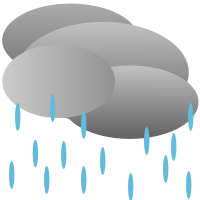
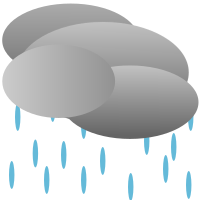
Hailey - Added daily weather page; Included location backtracking to nearest location in the available database in geopy

diff --git a/main.py b/main.py
@@ -10,18 +10,32 @@ from PIL import Image, ImageTk
 # Local Time
 from datetime import datetime
 
+# Get Location
+import ssl
+import certifi
+from geopy.geocoders import Nominatim
+import geopy.geocoders
+
 class Main:
 
     def __init__(self):
         self.root = ""
         self.now = datetime.now()
-        self.currentTime = self.now.strftime("%H:%M:%S")
+        self.currentTime = self.now.strftime("%H:%M")
         self.weatherIcons = []
+        self.days = ["Sunday", "Monday", "Tuesday", "Wednesday", "Thursday", "Friday", "Saturday"]
+        self.city = ""
 
     def mainLoop(self):
-        
+
         weather = Weather()
         lat, long = weather.SetCurrLoc()
+
+        # Get Nearest City/Location
+
+        self.getNearestCity(lat, long)
+        
+        
         curr_weather = weather.ViewCurrWeather(lat, long)
         temp = curr_weather["CurrTemp"]
 
@@ -50,30 +64,13 @@ class Main:
                     label = tk.Label(self.root, padx=50, pady=0)
                     label.grid(row=row, column=col, padx=20, pady=0)
 
-
-        # Hourly Button
-        hourly_button = Button(self.root, text="Hourly Forecast", width=10, height=2, command=self.hourlyForecast)
-        hourly_button.grid(row=7, column=1, padx=5, pady=5)
-        
-        # Daily Button
-        daily_button = Button(self.root, text="Daily Forecast", width=10, height=2, command=self.dailyForecast)
-        daily_button.grid(row=8, column=1, padx=5, pady=5)
-
-        # Wellness Button
-        wellness_button = Button(self.root, text="Wellness", width=10, height=2, command=self.wellness)
-        wellness_button.grid(row=9, column=1, padx=5, pady=5)
-
-        # Time Label
-        temp_icon_label = tk.Label(self.root, text=self.currentTime, font=("Arial", 15))
-        temp_icon_label.grid(row=10, column=1, padx=5, pady=5)
-
-        # Curr Weather
         # Location 
         strLat = str(lat)
         strLong = str(long)
         latlong = strLat + ", " + strLong
-        location_label = Label(self.root, text=latlong, font=("Arial", 30))
+        location_label = Label(self.root, text=self.city, font=("Arial", 30))
         location_label.grid(row=0, column=1, padx=5, pady=5)
+
 
         # Check Weather
         imageName = self.checkWeatherCat(currWeatherCat)
@@ -98,6 +95,23 @@ class Main:
         tempFull = str(int(temp)) + "\u00B0F"
         temp_label = Label(self.root, text=tempFull, font=("Arial", 25))
         temp_label.grid(row=1, column=1, padx=5, pady=5)
+
+        # Hourly Button
+        hourly_button = Button(self.root, text="Hourly Forecast", width=10, height=2, command=self.hourlyForecast)
+        hourly_button.grid(row=7, column=1, padx=5, pady=5)
+        
+        # Daily Button
+        daily_button = Button(self.root, text="Daily Forecast", width=10, height=2, command=self.dailyForecast)
+        daily_button.grid(row=8, column=1, padx=5, pady=5)
+
+        # Wellness Button
+        wellness_button = Button(self.root, text="Wellness", width=10, height=2, command=self.wellness)
+        wellness_button.grid(row=9, column=1, padx=5, pady=5)
+
+        # Time Label
+        temp_icon_label = tk.Label(self.root, text=self.currentTime, font=("Arial", 15))
+        temp_icon_label.grid(row=10, column=1, padx=5, pady=5)
+        
 
         # Run the Tkinter event loop
         self.root.mainloop()
@@ -159,6 +173,9 @@ class Main:
             hourlyWeatherText = weatherTranslations.GetConditions(hourlyWeatherCode)
             hourlyWeatherCat = weatherTranslations.GetCategory(hourlyWeatherCode, isDay)
 
+            if isDay and hourlyWeatherText == "Clear":
+                hourlyWeatherText = "Sunny"
+
             # Check Weather
             imageName = self.checkWeatherCat(hourlyWeatherCat)
 
@@ -173,11 +190,19 @@ class Main:
             weather_icon_label.grid(row=count, column=0, padx=5, pady=2)
 
 
-            # Add text labels at (1,1), (1,2), (1,3)
+            # Weather Text
             tk.Label(self.root, text=hourlyWeatherText, font=("Times New Roman", 20)).grid(row=count, column=1, padx=35, pady=2)
+
+            # Temperature
             tk.Label(self.root, text=hourlyTempStr, font=("Times New Roman", 18)).grid(row=count, column=2, padx=25, pady=2)
+
+            # Wind Speed
             tk.Label(self.root, text=hourlyWindSpeedStr, font=("Times New Roman", 16)).grid(row=count, column=3, padx=25, pady=2)
+
+            # Wind Direction
             tk.Label(self.root, text=hourlyWindDirStr, font=("Times New Roman", 16)).grid(row=count, column=4, padx=10, pady=2)
+
+            # Time
             tk.Label(self.root, text=timeStr, font=("Times New Roman", 16)).grid(row=count, column=5, padx=20, pady=2)
 
             count += 1
@@ -198,7 +223,92 @@ class Main:
 
 
     def dailyForecast(self):
-        pass
+
+        weather = Weather()
+        lat, long = weather.SetCurrLoc()
+        dailyDict = weather.ForecastDaily(lat, long)
+        dailyTempMaxArr = dailyDict["DailyTempMax"]
+        dailyTempMinArr = dailyDict["DailyTempMin"]
+        dailyWeatherCodeArr = dailyDict["DailyWeatherCode"]
+        dailyWindSpeedArr = dailyDict["DailyWindSpeed"]
+        isDay = True
+        
+
+        self.root.destroy()
+
+        self.root = tk.Tk()
+
+        # Back Button
+        back_button = Button(self.root, text="Back", width=10, height=2, command=self.mainLoop)
+        back_button.grid(row=0, column=0, padx=5, pady=0)
+
+
+        # Pulls current day in text format i.e "Monday"
+        currDay = self.now.strftime("%A")
+        dayStr = currDay
+
+        currDayIndex = self.days.index(currDay)
+
+        for i in range(7):
+
+            # Set start of days; if the end of the week (saturday) is the current day, it will iterate to the start of the list (sunday)
+            tk.Label(self.root, text=dayStr, font=("Times New Roman", 30)).grid(row=1, column=i, padx=20, pady=50)
+            if currDayIndex < 6:
+                currDayIndex += 1
+                dayStr = self.days[currDayIndex]
+            else:
+                currDayIndex = 0
+                dayStr = self.days[currDayIndex]
+
+            dailyWeatherCode = dailyWeatherCodeArr[i]
+            dailyTempMax = int(dailyTempMaxArr[i])
+            dailyTempMaxStr = str(dailyTempMax) + "\u00B0F"
+            dailyTempMin = int(dailyTempMinArr[i])
+            dailyTempMinStr = str(dailyTempMin) + "\u00B0F"
+            dailyWindSpeed = int(dailyWindSpeedArr[i])
+            dailyWindSpeedStr = str(dailyWindSpeed) + " mph"
+
+            weatherTranslations = WeatherCodeTranslations()
+            dailyWeatherText = weatherTranslations.GetConditions(dailyWeatherCode)
+            dailyWeatherCat = weatherTranslations.GetCategory(dailyWeatherCode, isDay)
+
+            if isDay and dailyWeatherText == "Clear":
+                dailyWeatherText = "Sunny"
+
+
+            # Check Weather
+            imageName = self.checkWeatherCat(dailyWeatherCat)
+
+            # Image
+            image_path = imageName
+            image = Image.open(image_path).convert("RGBA")
+            image = image.resize((100, 100))
+            weather_icon = ImageTk.PhotoImage(image)
+
+            self.weatherIcons.append(weather_icon)  # prevent GC
+
+            # Weather Icon Grid
+            weather_icon_label = tk.Label(self.root, image=weather_icon)
+            weather_icon_label.grid(row=2, column=i, padx=20, pady=15)
+
+            # Weather Text
+            weather_text = Label(self.root, text=dailyWeatherText, font=("Times New Roman", 26))
+            weather_text.grid(row=3, column=i, padx=20, pady=15)
+
+            # Temperature
+            tempMax_label = Label(self.root, text=dailyTempMaxStr, font=("Times New Roman", 23))
+            tempMax_label.grid(row=4, column=i, padx=20, pady=15)
+
+            tempMin_label = Label(self.root, text=dailyTempMinStr, font=("Times New Roman", 19))
+            tempMin_label.grid(row=5, column=i, padx=20, pady=0)
+
+            # Wind Speed
+            tk.Label(self.root, text=dailyWindSpeedStr, font=("Times New Roman", 16)).grid(row=6, column=i, padx=20, pady=10)
+
+        tk.Label(self.root, text="Weather Wellness", font=("Arial", 8)).grid(row=29, column=6, padx=20, pady=10)
+
+        self.root.mainloop()
+
 
 
     def wellness(self):
@@ -254,6 +364,23 @@ class Main:
             return "Images/fogIcon.png"
         else:
             return "Images/errorIcon.png"
+        
+
+    def getNearestCity(self, lat, long):
+        geopy.geocoders.options.default_ssl_context = ssl.create_default_context(cafile=certifi.where())
+
+        geolocator = Nominatim(user_agent="Weather_Wellness_hazweedyk@gmail.com")
+
+        # Reverse geocoding
+        location = geolocator.reverse((lat, long), exactly_one=True)
+
+        # Get city name
+        if location:
+            address = location.raw['address']
+            self.city = address.get('city', '') or address.get("town") or address.get("village") or address.get("hamlet") or address.get("county")
+        else:
+            print("Location not found.")
+        
 
 if __name__ == "__main__":
 

diff --git a/WeatherCodeTranslations.py b/WeatherCodeTranslations.py
@@ -32,7 +32,7 @@ class WeatherCodeTranslations:
         elif CurrWeatherCode == 19.0:
             conditionText = "Funnel Cloud Formation: Take Shelter"
         elif CurrWeatherCode == 20.0:
-            conditionText = "Drizzle"
+            conditionText = "Rain"
         elif CurrWeatherCode == 21.0:
             conditionText = "Rain"
         elif CurrWeatherCode == 22:
@@ -96,7 +96,7 @@ class WeatherCodeTranslations:
         elif 40.0 <= CurrWeatherCode <= 49.0:
             conditionText = "Fog"
         elif 50.0 <= CurrWeatherCode <= 59.0:
-            conditionText = "Drizzle"
+            conditionText = "Rain"
         elif 60.0 <= CurrWeatherCode <= 65.0 or 68.0 <= CurrWeatherCode <= 69.0:
             conditionText = "Rain"
         elif 65.0 <= CurrWeatherCode <= 67.0:
@@ -128,7 +128,7 @@ class WeatherCodeTranslations:
                 conditionCat = "Sunny"
             else:
                 conditionCat = "Clear"
-        elif 20 <= curr <= 21 or curr == 25 or 60 <= curr <= 65 or 80 <= curr <= 82 or 91 <= curr <= 92 or 14 <= curr <= 16 or curr == 51:
+        elif 20 <= curr <= 21 or curr == 25 or 60 <= curr <= 65 or 80 <= curr <= 82 or 91 <= curr <= 92 or 14 <= curr <= 16 or curr == 51 or curr == 53:
             conditionCat = "Rain"
         elif curr == 5:
             conditionCat = "Haze"

diff --git a/Weather.py b/Weather.py
@@ -41,7 +41,7 @@ class Weather:
 
 
     # View Forecast
-    def ForecastDaily(lat, longi):
+    def ForecastDaily(self, lat, long):
         # For weather codes, refer to https://www.nodc.noaa.gov/archive/arc0021/0002199/1.1/data/0-data/HTML/WMO-CODE/WMO4677.HTM
         # -----------------------------------
 
@@ -50,7 +50,7 @@ class Weather:
         url = "https://api.open-meteo.com/v1/forecast"
         params = {
             "latitude": lat,
-            "longitude": longi,
+            "longitude": long,
             "daily": ["weather_code", "temperature_2m_max", "temperature_2m_min", "precipitation_probability_max", "wind_speed_10m_max"],
             "temperature_unit": "fahrenheit",
             "wind_speed_unit": "mph",
